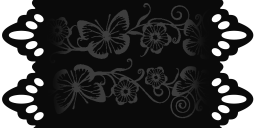
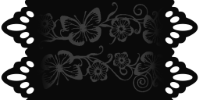
redesign main menu background

diff --git a/src/UI/game_state/main_menu_state/MainMenuBackground.cpp b/src/UI/game_state/main_menu_state/MainMenuBackground.cpp
@@ -4,23 +4,41 @@
 
 MainMenuBackground::MainMenuBackground() = default;
 
-void MainMenuBackground::loadTexture(const std::string& texturePath) {
-    backgroundTexture = LoadTexture(texturePath.c_str());
-    loaded = backgroundTexture.id != 0;
-    setLayer(0);
+void MainMenuBackground::loadCharTexture(const std::string& texturePath) {
+    charTexture = LoadTexture(texturePath.c_str());
+    loadedChar = charTexture.id != 0;
+}
+
+void MainMenuBackground::loadTitleTexture(const std::string& texturePath) {
+    titleTexture = LoadTexture(texturePath.c_str());
+    loadedTitle = titleTexture.id != 0;
+}
+
+void MainMenuBackground::loadDecorationTexture(const std::string& texturePath) {
+    decorationTexture = LoadTexture(texturePath.c_str());
+    loadedDecoration = decorationTexture.id != 0;
 }
 
 MainMenuBackground::~MainMenuBackground() {
-    if (loaded) {
-        UnloadTexture(backgroundTexture);
+    if (loadedChar) {
+        UnloadTexture(charTexture);
+    }
+    if (loadedTitle) {
+        UnloadTexture(titleTexture);
+    }
+    if (loadedDecoration) {
+        UnloadTexture(decorationTexture);
     }
 }
 
 void MainMenuBackground::render() const {
-    if (loaded) {
-        DrawTexture(backgroundTexture, 0, 0, WHITE);
-    } else{
-        // Fallback rendering if texture failed to load
-        DrawRectangle(0, 0, GetScreenWidth(), GetScreenHeight(), DARKGRAY);
+    if (loadedChar) {
+        DrawTexture(charTexture, 900, 150, WHITE);
+    }
+    if (loadedTitle) {
+        DrawTexture(titleTexture, 830, 350, WHITE);
+    }
+    if (loadedDecoration) {
+        DrawTexture(decorationTexture, 900, 150, WHITE);
     }
 }

diff --git a/src/UI/game_state/main_menu_state/MainMenuState.cpp b/src/UI/game_state/main_menu_state/MainMenuState.cpp
@@ -5,13 +5,12 @@
 
 MainMenuState::MainMenuState(GameStateManager& gsm) : gameStateManager(gsm)
 {
-    background.loadTexture("../assets/background/main_menu_background_new.png");
-    // background.loadTexture("../assets/background/tile_pattern.png");
+    background.loadCharTexture("../assets/background/main_menu_char.png");
+    background.loadTitleTexture("../assets/background/main_menu_title.png");
+    background.loadDecorationTexture("../assets/background/main_menu_decoration.png");
     movingTileEffect[0].loadTexture("../assets/background/tile_pattern_0.png");
     movingTileEffect[0].loadSideLines("../assets/background/side_lines.png");
     movingTileEffect[1].loadTexture("../assets/background/tile_pattern_1.png");
-    // movingTileEffect.loadTexture("../assets/background/tile_pattern.png");
-    // movingTileEffect.loadTexture("../assets/background/main_menu_background_new.png");
     enter();
 }
 
@@ -44,14 +43,13 @@ void MainMenuState::enter() {
     });
     buttonManager.addButton(std::move(exitButton));
     AudioManager::getInstance().loadThemeMusic("../assets/audio/music_mainthema.ogg");
-    movingTileEffect[0].init({350, 0}, 20.0f, 100.0f, 10);
-    movingTileEffect[1].init({400, 0}, 30.0f, 120.0f, 9);
+    movingTileEffect[0].init({500, 0}, 10.0f, 100.0f, 10);
+    movingTileEffect[1].init({550, 0}, 6.0f, 120.0f, 9);
 }
 
 void MainMenuState::update(float dt) {
     buttonManager.update(dt);
     for(int i = 0; i < 2; i++) movingTileEffect[i].update(dt);
-    // movingTileEffect[0].update(dt);
     AudioManager::getInstance().update(dt);
 }
 

diff --git a/src/UI/button/ButtonGraphicsComponent.cpp b/src/UI/button/ButtonGraphicsComponent.cpp
@@ -4,7 +4,7 @@
 #include <iostream>
 
 ButtonGraphicsComponent::ButtonGraphicsComponent(const IButtonView* buttonView) : buttonView(buttonView) {
-    font = LoadFontEx("../assets/fonts/Redressed.ttf", 150, 0, 0);
+    font = LoadFontEx("../assets/fonts/Redressed.ttf", 256, 0, 0);
     isLoaded = true;
     effectRectHeight = 0.0f;
     period = 0.3f;
@@ -63,7 +63,7 @@ void ButtonGraphicsComponent::render() const {
 
     // Draw button label centered
     if (isLoaded) {
-        int fontSize = 75;
+        int fontSize = 50;
         const std::string& label = buttonView->getText();
         Vector2 textSize = MeasureTextEx(font, label.c_str(), fontSize, 2);
         int textX = bounds.x + (bounds.width - textSize.x) / 2;
@@ -74,7 +74,7 @@ void ButtonGraphicsComponent::render() const {
         }
         DrawTextEx(font, label.c_str(), { (float)textX, (float)textY }, fontSize, 1.0f, buttonView->isHovered() ? BLACK : WHITE);
     } else {
-        int fontSize = 20;
+        int fontSize = 10;
         const std::string& label = buttonView->getText();
         int textWidth = MeasureText(label.c_str(), fontSize);
         int textX = bounds.x + (bounds.width - textWidth) / 2;

diff --git a/src/UI/game_state/main_menu_state/MainMenuBackground.hpp b/src/UI/game_state/main_menu_state/MainMenuBackground.hpp
@@ -8,14 +8,20 @@
 class MainMenuBackground : public GraphicsComponent {
 public:
     MainMenuBackground();
-    void loadTexture(const std::string& texturePath);
+    void loadCharTexture(const std::string& texturePath);
+    void loadTitleTexture(const std::string& texturePath);
+    void loadDecorationTexture(const std::string& texturePath);
     ~MainMenuBackground();
 
     void render() const override;
 
 private:
-    Texture2D backgroundTexture;
-    bool loaded = false;
+    Texture2D charTexture;
+    Texture2D titleTexture;
+    Texture2D decorationTexture;
+    bool loadedChar = false;
+    bool loadedTitle = false;
+    bool loadedDecoration = false;
 };
 
 #endif // MAIN_MENU_BACKGROUND_HPP
